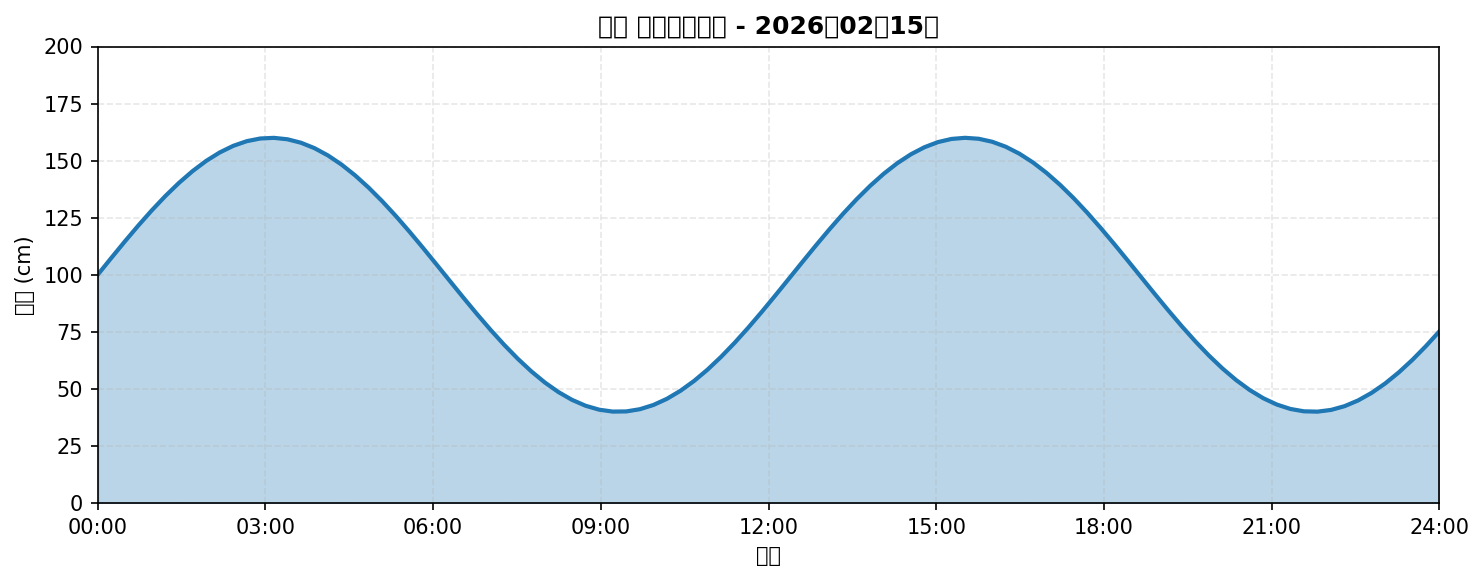
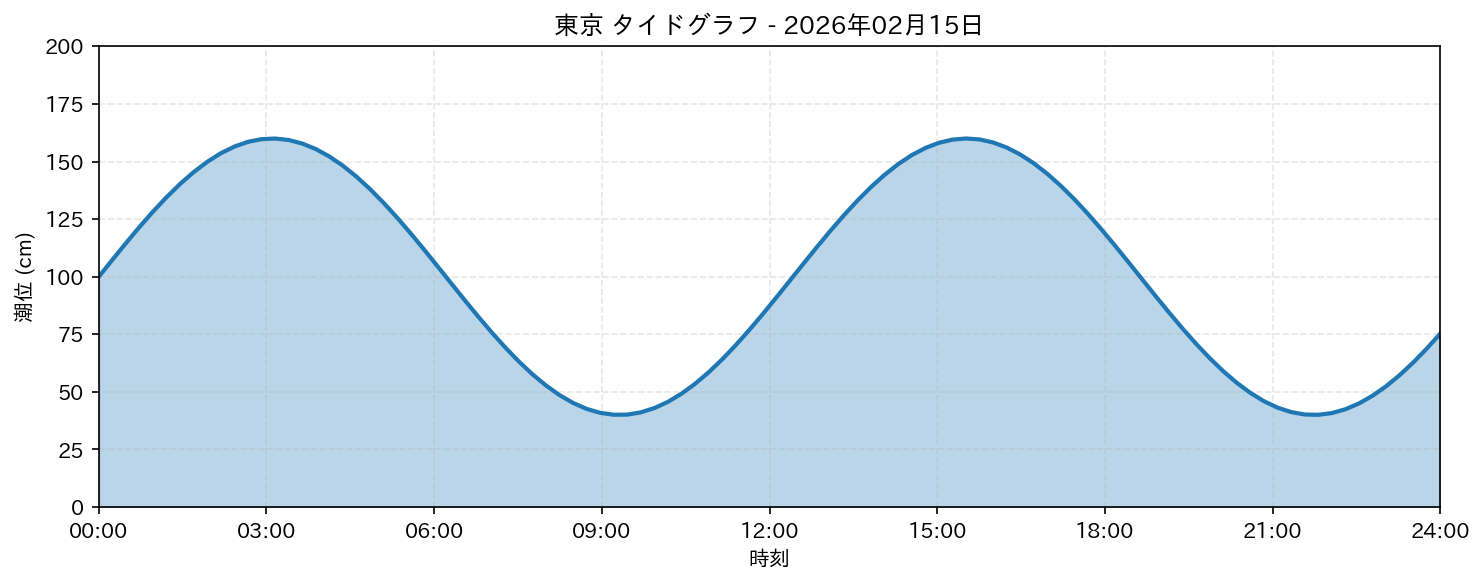
feat(poc): add japanese font support and production spec notes
- Add matplotlib-fontja import and japanize() call
- Add production implementation spec comments (TideGraphService)
  Square 6x6, dark mode, annotations, Drive folder
- Fix pyright warning: rename unused fig to _fig
- Regenerate output image with Japanese font applied

diff --git a/scripts/poc_tide_graph_image.py b/scripts/poc_tide_graph_image.py
@@ -9,7 +9,11 @@ from datetime import datetime
 from pathlib import Path
 
 import matplotlib.pyplot as plt
+import matplotlib_fontja
 import numpy as np
+
+# 日本語フォント適用（IPAexゴシック同梱、システムフォント不要）
+matplotlib_fontja.japanize()
 
 
 def generate_dummy_tide_graph(
@@ -32,11 +36,21 @@ def generate_dummy_tide_graph(
     tide_height = 100 + 60 * np.sin(2 * np.pi * hours / 12.42)  # 半日周潮
 
     # グラフ生成
-    fig, ax = plt.subplots(figsize=(10, 4))
+    _fig, ax = plt.subplots(figsize=(10, 4))
 
     # 潮位曲線
     ax.plot(hours, tide_height, linewidth=2, color="#1f77b4")
     ax.fill_between(hours, 0, tide_height, alpha=0.3, color="#1f77b4")
+
+    # NOTE: 本番実装（TideGraphService）では以下の仕様を適用する:
+    # - アスペクト比: 1:1 スクエア (6x6 インチ, 900x900px @150dpi)
+    # - 配色: ダークモード基調 (背景 #0d1117, 曲線 #58a6ff)
+    # - 満干潮アノテーション: ●マーカー + 時刻/潮位ラベル
+    #   - 満潮: #f0883e (オレンジ), 干潮: #3fb950 (ティール)
+    # - 時合い帯ハイライト: #d29922 (alpha=0.15)
+    # - タイトル: {地名} {MM/DD} + 潮回り絵文字
+    # - ファイル名: tide_graph_{location_id}_{YYYYMMDD}.png
+    # - Drive フォルダ: fishing-forecast-tide-graphs（専用）
 
     # グリッド
     ax.grid(True, alpha=0.3, linestyle="--")
